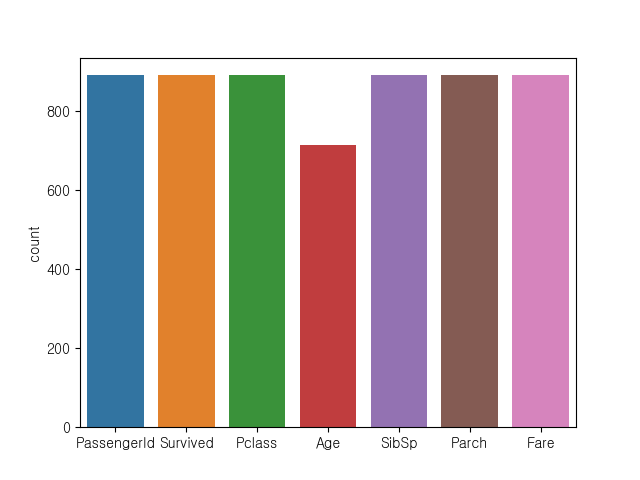
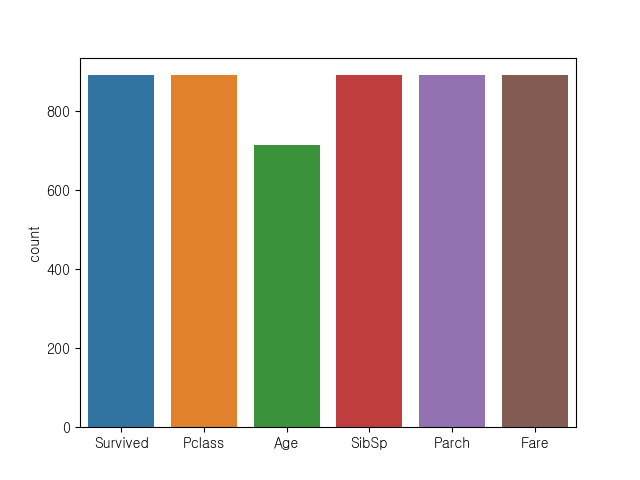
2022-03-18

diff --git a/titanic/models.py b/titanic/models.py
@@ -1,4 +1,6 @@
+import numpy as np
 from icecream import ic
+import pandas as pd
 
 from context.domains import Dataset
 from context.models import Model
@@ -9,6 +11,13 @@ class TitanicModel(object):
     dataset = Dataset()
 
     def preprocess(self, train_fname, test_fname):
+        '''
+        1. entity 를 object로 전환.
+        2. train, test, validation(id, label) => object
+        3. garbage drop
+        4. signal과 noise가 섞인(name) 컬럼의 값 분리 후 noise drop
+        5. 자연어로 되어있는 데이터 들을 CPU가 처리 할 수 있게 int 값으로 변경
+        '''
         this = self.dataset
         that = self.model
         this.train = that.new_dframe(train_fname)
@@ -17,28 +26,43 @@ class TitanicModel(object):
         this.label = this.train['Survived']
         this.train.drop('Survived', axis=1, inplace=True)
         this = self.drop_feature(this, 'Cabin', 'Parch', 'Ticket', 'SibSp')
-        self.print_this(this)
-        '''
-        this = self.create_train(this)
-        this = self.create_label(this)
-        this = self.name_nominal(this)
+        self.df_info(this)
+
+        this = self.extract_title_from_name(this)
+        title_mapping = self.remove_duplicate(this)
+        this = self.name_nominal(this, title_mapping)
+        this = self.drop_feature(this, 'Name')
         this = self.sex_nominal(this)
-        this = self.age_ratio(this)
+        this = self.drop_feature(this, 'Sex')
         this = self.embarked_nominal(this)
+        this = self.age_ratio(this)
+        this = self.drop_feature(this, 'Age')
+        this = self.fare_ratio(this)
+
+
+        # self.print_this(this)
+        ic(this.train.head(20))
+        ic(this.test.head(20))
+
+        '''
         this = self.pclass_ordinal(this)
-        this = self.fare_ratio(this)'''
+        '''
         return this
+
+    @staticmethod
+    def df_info(this):
+        [print(f'{i.info()}') for i in [this.train, this.test]]
 
     @staticmethod
     def print_this(this):
         print('*' * 100)
         ic(f'1. Train 의 타입 : {type(this.train)}\n')
         ic(f'2. Train 의 컬럼 : {this.train.columns}\n')
-        ic(f'3. Train 의 상위 1개 : {this.train.head(1)}\n')
+        print(f'3. Train 의 상위 3개 : {this.train.head(3)}\n')
         ic(f'4. Train 의 null의 개수 : {this.train.isnull().sum()}\n')
         ic(f'5. Test 의 타입 : {type(this.test)}\n')
         ic(f'6. Test 의 컬럼 : {this.test.columns}\n')
-        ic(f'7. Test 의 상위 1개 : {this.test.head(1)}\n')
+        ic(f'7. Test 의 상위 3개 : {this.test.head(3)}\n')
         ic(f'8. Test 의 null의 개수 : {this.test.isnull().sum()}\n')
         ic(f'9. id 의 타입 : {type(this.id)}\n')
         ic(f'10. id 의 상위 10개 : {this.id[:10]}\n')
@@ -50,9 +74,14 @@ class TitanicModel(object):
 
     @staticmethod
     def drop_feature(this, *feature):
-        # [[j.drop(i, axis=1, inplace=True) for i in feature] for j in [this.train, this.test]]
         [i.drop(list(feature), axis=1, inplace=True) for i in [this.train, this.test]]
+        # https://www.geeksforgeeks.org/how-to-drop-one-or-multiple-columns-in-pandas-dataframe/
+        # multiple drop
         return this
+
+    @staticmethod
+    def kwargs_sample(**kwargs) -> None:
+        [print(f'{key} is {value}') for key, value in kwargs.items()]
 
     '''
     Categorical vs. Quantitative
@@ -65,21 +94,91 @@ class TitanicModel(object):
         return this
 
     @staticmethod
-    def name_nominal(this) -> object:
+    def extract_title_from_name(this):
+        combine = [this.train, this.test]
+        for dataset in combine:
+            dataset['Title'] = dataset.Name.str.extract('([A-Za-z]+)\.', expand=False)
+        return this
+
+    @staticmethod
+    def remove_duplicate(this) -> {}:
+        a = set()
+        [a.update(set(dataset['Title'])) for dataset in [this.train, this.test]]
+        # print(a)
+        title_mapping = {'Mr': 1, 'Ms': 2, 'Mrs': 3, 'Master': 4, 'Royal': 5, 'Rare': 6}
+        '''
+        Royal (왕족) : ['Countess', 'Lady', 'Sir']
+        Rare : ['Capt', 'Col', 'Don', 'Dr', 'Major', 'Rev', 'Jonkheer', 'Dona', 'Mme']
+        Mr : ['Mr', 'Mlle']
+        Ms : ['Miss', 'Ms']
+        Master : ['Master']
+        Mrs : ['Mrs']
+        '''
+        return title_mapping
+
+    @staticmethod
+    def name_nominal(this, title_mapping):
+        for these in [this.train, this.test]:
+            these['Title'].replace(['Countess', 'Lady', 'Sir'], 'Royal', inplace=True)
+            these['Title'].replace(
+                ['Capt', 'Col', 'Don', 'Dr', 'Major', 'Rev', 'Jonkheer', 'Dona', 'Mme'], 'Rare', inplace=True)
+            these['Title'].replace(['Mlle'], 'Mr', inplace=True)
+            these['Title'].replace(['Miss'], 'Ms', inplace=True)
+            # Mr, Ms, Master, Mrs는 변화 없음.
+            these['Title'].fillna(0, inplace=True)
+            these['Title'] = these['Title'].map(title_mapping)
         return this
 
     @staticmethod
     def age_ratio(this) -> object:
+        age_mapping = {'Unknown': 0, 'Baby': 1, 'Child': 2, 'Teenager': 3, 'Student': 4,
+                       'Young Adult': 5, 'Adult': 6, 'Senior': 7}
+        [these['Age'].fillna(-0.5, inplace=True) for these in [this.train, this.test]]
+        # Q 왜 Nan 값에 -0.5 를 할당 할까?
+        # A bins 의 Unknown 값의 범위는 -1 ~ 0 ( -1 초과 0 이하 right = true(default)) 이라서 -1을 주게 된다면 NaN 값이 되어버린다.
+        # etc.. Unknown 값을 0을 주게 되면 포함이 되는데 그냥 0 줘도 되는게 아닌지?
+        bins = [-1, 0, 5, 12, 18, 24, 35, 60, np.inf]  # 이것을 이해해 봐라.
+        # bins[i] ~ bins[i+1] 구간의 label이므로 bins가 하나 많게 된다.
+        # labels = ['Unknown', 'Baby', 'Child', 'Teenager', 'Student', 'Young Adult', 'Adult', 'Senior']
+        # for these in [this.train, this.test]:
+        #     these['AgeGroup'] = pd.cut(these['Age'], bins=bins, labels=labels)  # pd.cut()을 사용
+        #     these['AgeGroup'] = these['AgeGroup'].map(age_mapping)  # map()을 사용
+
+        labels = [0, 1, 2, 3, 4, 5, 6, 7]
+        # labels = ['Unknown', 'Baby', 'Child', 'Teenager', 'Student', 'Young Adult', 'Adult', 'Senior']
+        for these in [this.train, this.test]:
+            these['AgeGroup'] = pd.cut(these['Age'], bins=bins, right=False, labels=labels)  # pd.cut()을 사용
+        ic(type(this.train['AgeGroup'][0]))
         return this
 
     @staticmethod
     def sex_nominal(this) -> object:
+        gender_mapping = {'male': 0, 'female': 1}
+        for these in [this.train, this.test]:
+            these['Gender'] = these['Sex'].map(gender_mapping)
         return this
 
     @staticmethod
     def embarked_nominal(this) -> object:
+        embarked_mapping = {'S': 1, 'C': 2, 'Q': 3}
+        this.train['Embarked'].fillna(1, inplace=True)
+        '''test 는 null 없으니까 train 만 처리한다.
+        
+        null 값은 정규분포를 따라서 정해준다.
+        고로 탑승 항구 3개중 가장 많은 곳으로 보내버리면 되나...?
+        Title을 보고 해당 Title을 가진 집단에서의 가장 많은곳으로 보내면 될것같다.
+        가 아니라 정규분포를 가장 맞춰 줄 수 있는 값으로 정해준다.
+        print(these['Embarked'].value_counts())
+        S    644, C    168, Q     77
+        S    270, C    102, Q     46'''
+        for these in [this.train, this.test]:
+            these['Embarked'] = these['Embarked'].map(embarked_mapping)
         return this
 
     @staticmethod
     def fare_ratio(this) -> object:
+        this.test['Fare'] = this.test['Fare'].fillna(1)
+        this.train['FareBand'] = pd.qcut(this.train['Fare'], 4)
+        # print(f'qcut 으로 bins 값 설정 {this.train["FareBand"].head()}')
+        bins = [-1, 8, 15, 31, np.inf]
         return this

diff --git a/titanic/__init__.py b/titanic/__init__.py
@@ -19,5 +19,6 @@ if __name__ == '__main__':
             print(' #### 2. 모델 #### ')
             model = TitanicModel()
             model.preprocess(train_fname='train.csv', test_fname='test.csv')
+            # model.kwargs_sample(first='이순신', second='홍길동', third='유관순')
         else:
             break

diff --git a/context/domains.py b/context/domains.py
@@ -9,8 +9,8 @@ class Dataset:
     dname: str
     sname: str
     fname: str
-    train: str
-    test: str
+    train: pandas.core.frame.DataFrame
+    test: pandas.core.frame.DataFrame
     id: str
     label: str
 
